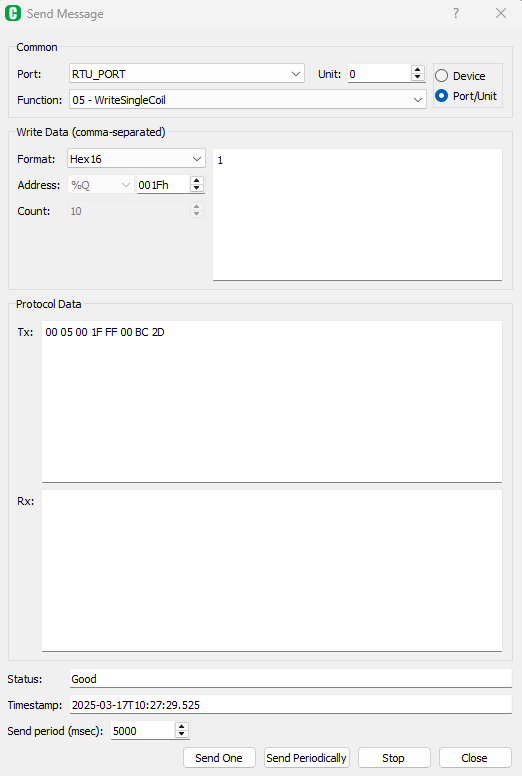
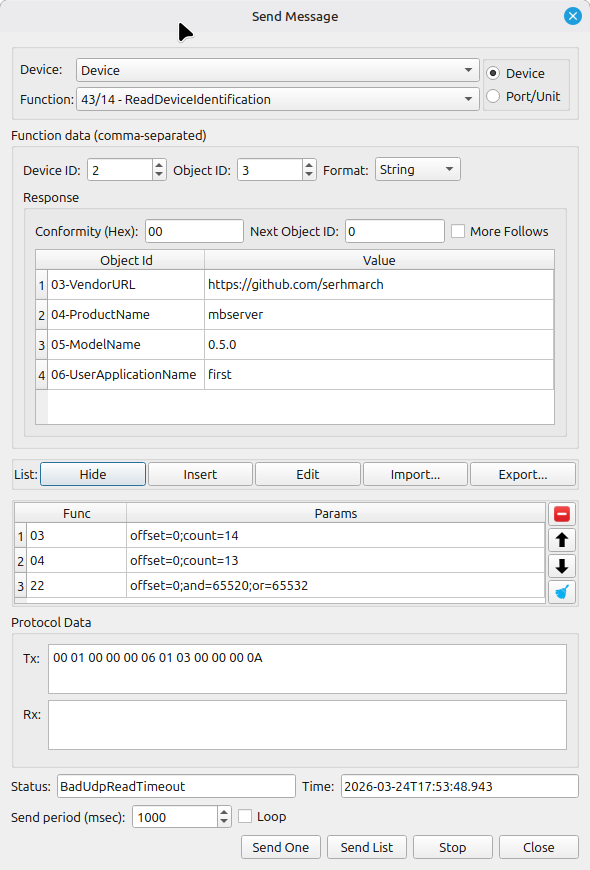
Update docs

diff --git a/src/server/core/server.cpp b/src/server/core/server.cpp
@@ -39,9 +39,9 @@
 #include <runtime/server_runtime.h>
 
 mbServer::Strings::Strings() : mbCore::Strings(),
-    GUID(QStringLiteral("bcde38bb-2402-4b3f-9ddb-3abfd0986852")), // generated by https://www.guidgenerator.com/online-guid-generator.aspx
-    settings_application(QStringLiteral("Server")),
+    settings_application(QStringLiteral("mbserver")),
     default_server(settings_application),
+    GUID(QStringLiteral("bcde38bb-2402-4b3f-9ddb-3abfd0986852")), // generated by https://www.guidgenerator.com/online-guid-generator.aspx
     settings_scriptEnable         (QStringLiteral("Script.Enable")),
     settings_scriptUseOptimization(QStringLiteral("Script.UseOptimization")),
     settings_scriptLoopPeriod     (QStringLiteral("Script.LoopPeriod")),

diff --git a/src/client/core/client.cpp b/src/client/core/client.cpp
@@ -39,9 +39,8 @@
 #include <runtime/client_runtime.h>
 
 mbClient::Strings::Strings() :
-    settings_application(QStringLiteral("Client")),
+    settings_application(QStringLiteral("mbclient")),
     default_client(settings_application),
-    default_conf_file(QStringLiteral("client.conf")),
     GUID(QStringLiteral("e9da9345-c8b1-47d0-acbd-0a3401fef700")) // generated by https://www.guidgenerator.com/online-guid-generator.aspx
 {
 }

diff --git a/src/core/core/core.cpp b/src/core/core/core.cpp
@@ -75,7 +75,7 @@ void coreMessageHandler(QtMsgType type, const QMessageLogContext &context, const
 }
 
 mbCore::Strings::Strings() :
-    settings_organization   (QStringLiteral("ModbusTools"       )),
+    settings_organization   (QStringLiteral("mbtools"           )),
     settings_lastProject    (QStringLiteral("lastProject"       )),
     settings_logFlags       (QStringLiteral("Log.Flags"         )),
     settings_useTimestamp   (QStringLiteral("Log.UseTimestamp"  )),

diff --git a/src/server/core/server.h b/src/server/core/server.h
@@ -45,9 +45,9 @@ class mbServer : public mbCore
 public:
     struct Strings : mbCore::Strings
     {
-        const QString GUID;
         const QString settings_application;
         const QString default_server;
+        const QString GUID;
 
         const QString settings_scriptEnable         ;
         const QString settings_scriptUseOptimization;

diff --git a/src/server/runtime/server_runscriptthread.cpp b/src/server/runtime/server_runscriptthread.cpp
@@ -106,7 +106,7 @@ void mbServerRunScriptThread::run()
     QEventLoop eloop;
     mbCoreFileManager *fileManager = mbServer::global()->fileManager();
 
-    const QString prefix = QString("ModbusTools.Server.%1.%2").arg(getProcessIdString(), m_device->name());
+    const QString prefix = QString("mbtools.server.%1.%2").arg(getProcessIdString(), m_device->name());
 
     const QString sMemDev = prefix+QStringLiteral(".device");
     const QString sMemPy  = prefix+QStringLiteral(".python");

diff --git a/src/client/core/client.h b/src/client/core/client.h
@@ -46,7 +46,6 @@ public:
     {
         const QString settings_application;
         const QString default_client;
-        const QString default_conf_file;
         const QString GUID;
         Strings();
         static const Strings &instance();

diff --git a/README.md b/README.md
@@ -2,17 +2,12 @@
 
 ## Overview
 
-ModbusTools are cross-platform (Windows, Linux) Modbus simulator tools (client and server) with GUI
-to work with standard Modbus Protocol. 
-Modbus Tools are a free, open-source  tools with a simple user interface written in C++/Qt. 
-It implements TCP, RTU and ASCII versions of Modbus Protocol.
+ModbusTools are cross-platform (Windows, Linux) GUI simulators (client/server) that support 
+TCP, UDP, RTU, ASCII, RTU/ASCII over TCP/UDP Modbus protocol types. 
+Modbus tools are a free, open-source  tools with a simple user interface written in C++/Qt. 
 
-### *New in version 0.4*:
+Supported Modbus functions:
 
-*From now server application allows you to create program logic for the Modbus device simulator 
-using your favorite Python programming language.*
-
-Software implements such Modbus functions as:
 * `1 ` (`0x01`) - `READ_COILS`
 * `2 ` (`0x02`) - `READ_DISCRETE_INPUTS`
 * `3 ` (`0x03`) - `READ_HOLDING_REGISTERS`
@@ -20,11 +15,18 @@ Software implements such Modbus functions as:
 * `5 ` (`0x05`) - `WRITE_SINGLE_COIL`
 * `6 ` (`0x06`) - `WRITE_SINGLE_REGISTER`
 * `7 ` (`0x07`) - `READ_EXCEPTION_STATUS`
+* `8 ` (`0x08`) - `DIAGNOSTICS` (v0.5+)
+* `11` (`0x0B`) - `GET_COMM_EVENT_COUNTER` (v0.5+)
+* `12` (`0x0C`) - `GET_COMM_EVENT_LOG` (v0.5+)
 * `15` (`0x0F`) - `WRITE_MULTIPLE_COILS`
 * `16` (`0x10`) - `WRITE_MULTIPLE_REGISTERS`
-* `17` (`0x11`) - `REPORT_SERVER_ID` (since v0.4)
-* `22` (`0x16`) - `MASK_WRITE_REGISTER` (since v0.3)
+* `17` (`0x11`) - `REPORT_SERVER_ID` (v0.4+)
+* `20` (`0x14`) - `READ_FILE_RECORD` (v0.5+)
+* `21` (`0x15`) - `WRITE_FILE_RECORD` (v0.5+)
+* `22` (`0x16`) - `MASK_WRITE_REGISTER` (v0.3+)
 * `23` (`0x17`) - `READ_WRITE_MULTIPLE_REGISTERS` (since v0.3)
+* `24` (`0x18`) - `READ_FIFO_QUEUE` (v0.5+)
+* `43/14` (`0x2B/0x0E`) - `READ_DEVICE_ID` (v0.5+)
 
 ModbusTools work with Qt Framework version 5 (5.8 or later).
 It based on `ModbusLib` cross platform library project:
@@ -109,7 +111,29 @@ to the specified port with unit address (e.g. `unit=0` for broadcast request).
 It works in parallel with regular Modbus application messages and 
 can be seen in LogView as regular Modbus message as well.
 
-### Scanner window (since v0.3)
+__*New in version 0.5*__:
+
+`SendMessage` window contains list with predefined functions
+with parameters that can be periodically sent to the server.
+
+### Send Bytes window (v0.5+)
+
+This is a new tool for Modbus client that provides abillity to send
+any byte sequence to the server which can be non standard sequence.
+This tool can be useful for the server that provides non standard 
+behavior or to test server's response for some byte sequence.
+
+![](./doc/images/client_sendbytes_window.png)
+
+This window can be opened using menu `Tools->Send Bytes`.
+User can send message to the predefined port.
+It works in parallel with regular Modbus application messages and 
+can be seen in LogView as regular Modbus message as well.
+
+`SendBytes` window contains list with predefined byte sequences
+that can be periodically sent to the server.
+
+### Scanner window (v0.3+)
 
 `Scanner` tool window is intended to scan Modbus network to determine which device 
 with current settings are present in the network.
@@ -124,6 +148,12 @@ which is called using `...` button in `Request` field.
 There is a list of found devices in central widget.
 Found devices can be add to the current project:
 button `To Project` add selected devices, `All To Project` - all devices will be added to the project.
+
+__*New in version 0.5*__:
+
+`Scanner` window contains special tab `Functions`, that shows 
+result of every request function, so it can be used to scan device(s)
+for specific function or function parameter support.
 
 ## About Modbus Server
 
@@ -144,7 +174,7 @@ Device contains settings for a single device (such as Modbus Unit Address, memor
 The DataViewItem contains a single data unit to be read/write from the device and has many formats to 
 represent the current data. Action provides simulation capabilities (automatic change of device memory values).
 
-### Scripting using Python (since v0.4)
+### Scripting using Python (v0.4+)
 
 Since v0.4 version 'server' application allows to extend logic of your Modbus device 
 simulator using one the most popular programming language - Python.

diff --git a/changelog.md b/changelog.md
@@ -214,7 +214,14 @@ List of changes of new v0.4 version of ModbusTools:
     * `RTU` over `TCP`
     * `ASCII` over `TCP`
     * `RTU` over `UDP`
-    * `ASCII` over `UDP` 
-* Added `SendBytes`-tool for Modbus client
-* Updated `Send Message` dialog for Modbus client
+    * `ASCII` over `UDP`
+* Added support for `FC08`, `FC11`, `FC12`, `FC20`, `FC21`, `FC24`, `FC43/14`
+* Added `SendBytes`-tool for Modbus client ((+ predefined message list))
+* Updated `Send Message` dialog for Modbus client (added predefined message list)
 * Updated `Scanner` dialog for Modbus client (added function support scanning)
+* Added `LogView` message category colorization
+* Added statistics for Port/Device of `mbclient`/`mbserver`
+* Renamed `ByteOrder` param into `SwapBytes`
+* Renamed project file extensions `pjc`/`pjs` into `mbc`/`mbs`
+* Renamed `core`/`client`/`server` into `mbcore`/`mbclient`/`mbserver`
+* Added cmake option to separate client and server compilation